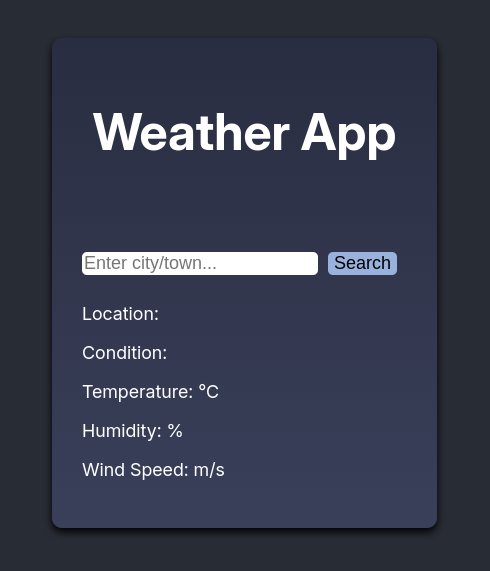
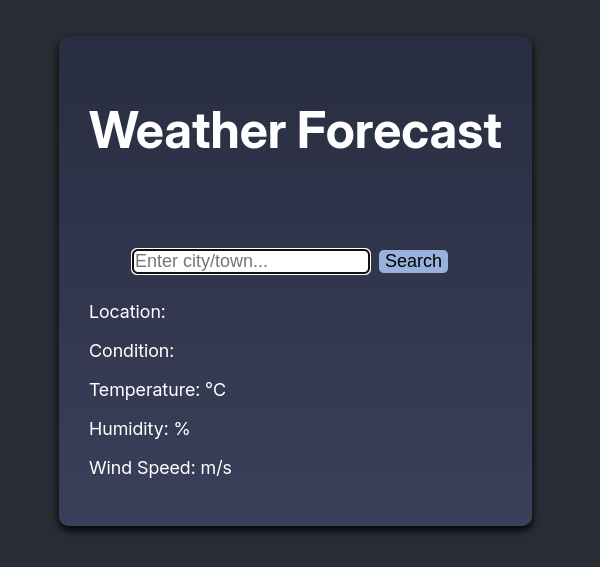
Changed title of application

diff --git a/src/App.js b/src/App.js
@@ -38,7 +38,7 @@ function App() {
     <div className="App">
       <header className="App-header">
         <div class="container">
-          <h1>Weather App</h1>
+          <h1>Weather Forecast</h1>
           <img src={weather.icon} onerror="this.src.display='none'" />
           <div>
             <input
